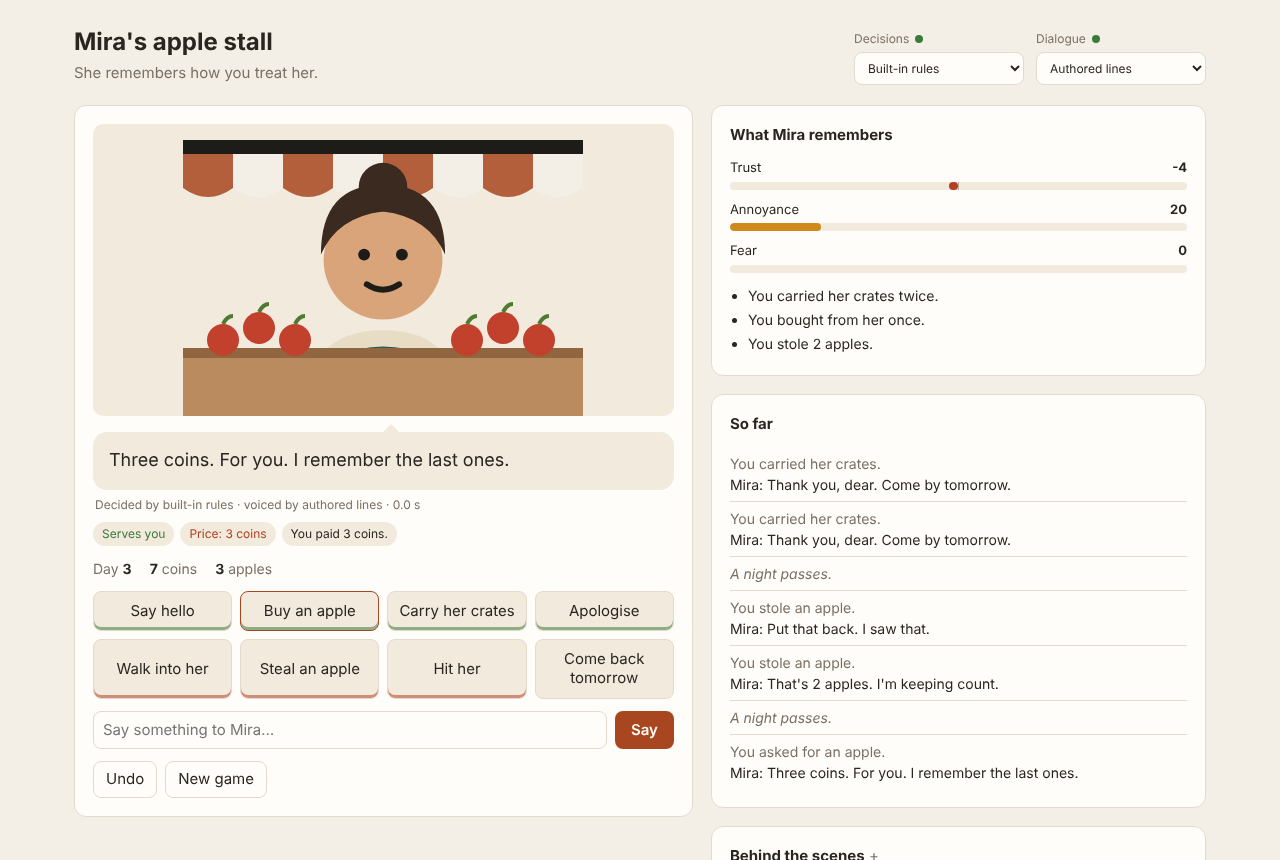
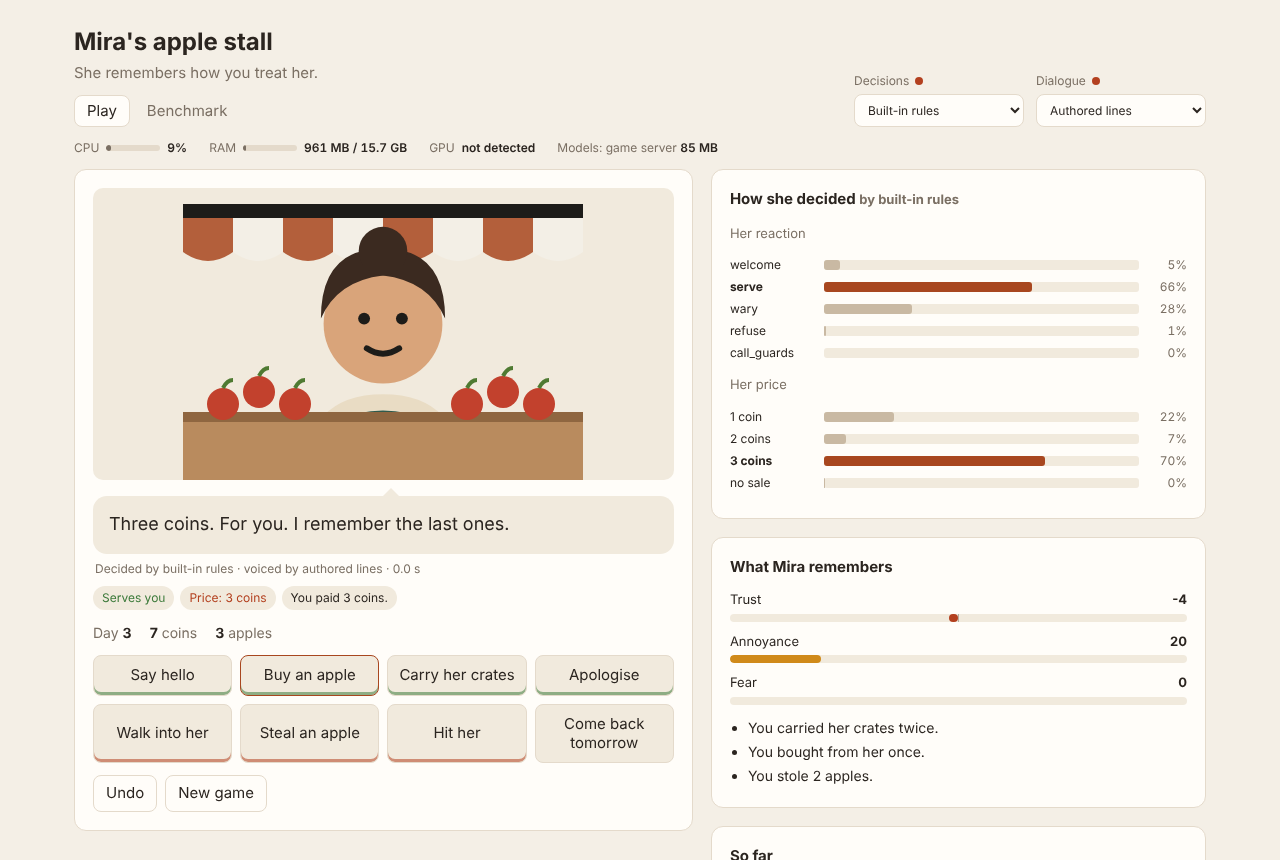
Show live CPU, RAM, GPU and model memory on the page

diff --git a/src/system.ts b/src/system.ts
@@ -1,0 +1,96 @@
+/**
+ * Live system stats for the page: CPU and RAM for the whole machine, the GPU
+ * when an NVIDIA card and nvidia-smi are present, and how much memory each
+ * model is using.
+ */
+import { execFile } from "node:child_process";
+import os from "node:os";
+import type { DeciderHealth } from "./decision.ts";
+import type { LoadedModel } from "./ollama.ts";
+import type { Services } from "./turn.ts";
+
+export type Gpu = { name: string; utilisation: number; memoryUsedMB: number; memoryTotalMB: number };
+
+export type SystemStats = {
+  cpu: { model: string; cores: number; usage: number };
+  memory: { usedMB: number; totalMB: number };
+  /** null when no NVIDIA GPU (or no nvidia-smi) was found */
+  gpus: Gpu[] | null;
+  decider: DeciderHealth | null;
+  ollama: LoadedModel[];
+  serverMB: number;
+};
+
+/* ---------------- CPU ---------------- */
+
+function cpuTimes() {
+  let idle = 0;
+  let total = 0;
+  for (const c of os.cpus()) {
+    idle += c.times.idle;
+    total += c.times.user + c.times.nice + c.times.sys + c.times.irq + c.times.idle;
+  }
+  return { idle, total };
+}
+
+let previous = cpuTimes();
+
+/** Share of CPU time spent busy since the last call, across all cores. */
+function cpuUsage() {
+  const now = cpuTimes();
+  const total = now.total - previous.total;
+  const idle = now.idle - previous.idle;
+  previous = now;
+  return total > 0 ? Math.max(0, Math.min(1, 1 - idle / total)) : 0;
+}
+
+/* ---------------- GPU ---------------- */
+
+export function parseNvidiaSmi(out: string): Gpu[] {
+  return out
+    .trim()
+    .split("\n")
+    .filter(Boolean)
+    .map((line) => {
+      const [name, util, used, total] = line.split(",").map((x) => x.trim());
+      return { name, utilisation: Number(util) / 100, memoryUsedMB: Number(used), memoryTotalMB: Number(total) };
+    })
+    .filter((g) => g.name && Number.isFinite(g.memoryTotalMB));
+}
+
+let noNvidiaSmi = false;
+
+function nvidiaSmi(): Promise<Gpu[] | null> {
+  if (noNvidiaSmi) return Promise.resolve(null);
+  return new Promise((resolve) => {
+    execFile(
+      "nvidia-smi",
+      ["--query-gpu=name,utilization.gpu,memory.used,memory.total", "--format=csv,noheader,nounits"],
+      { timeout: 2000, windowsHide: true },
+      (err, stdout) => {
+        if (err) {
+          // not installed: stop asking. Any other error: try again next time.
+          if ((err as NodeJS.ErrnoException).code === "ENOENT") noNvidiaSmi = true;
+          return resolve(null);
+        }
+        const gpus = parseNvidiaSmi(stdout);
+        resolve(gpus.length ? gpus : null);
+      },
+    );
+  });
+}
+
+/* ---------------- all together ---------------- */
+
+export async function systemStats(services: Services): Promise<SystemStats> {
+  const [gpus, decider, ollama] = await Promise.all([nvidiaSmi(), services.gliclass.health(), services.ollama.loaded()]);
+  const totalMB = os.totalmem() / 2 ** 20;
+  return {
+    cpu: { model: os.cpus()[0]?.model.trim() ?? "unknown", cores: os.cpus().length, usage: cpuUsage() },
+    memory: { usedMB: totalMB - os.freemem() / 2 ** 20, totalMB },
+    gpus,
+    decider,
+    ollama,
+    serverMB: process.memoryUsage().rss / 2 ** 20,
+  };
+}

diff --git a/web/system.js b/web/system.js
@@ -1,0 +1,57 @@
+// Live system stats under the header: CPU, RAM, GPU and what each model uses.
+
+const el = document.querySelector("#system");
+const esc = (s) =>
+  String(s).replace(/[&<>"']/g, (c) => ({ "&": "&amp;", "<": "&lt;", ">": "&gt;", '"': "&quot;", "'": "&#39;" })[c]);
+const gb = (mb) => (mb >= 1024 ? `${(mb / 1024).toFixed(1)} GB` : `${Math.round(mb)} MB`);
+
+function gauge(share) {
+  const cls = share > 0.9 ? "full" : share > 0.6 ? "busy" : "";
+  return `<span class="gauge ${cls}"><span style="width:${Math.round(share * 100)}%"></span></span>`;
+}
+
+function stat(label, share, text, title = "") {
+  return `<span class="stat" title="${esc(title)}">${label} ${gauge(share)} <b>${text}</b></span>`;
+}
+
+function render(s) {
+  const parts = [
+    stat("CPU", s.cpu.usage, `${Math.round(s.cpu.usage * 100)}%`, `${s.cpu.model}, ${s.cpu.cores} cores`),
+    stat("RAM", s.memory.usedMB / s.memory.totalMB, `${gb(s.memory.usedMB)} / ${gb(s.memory.totalMB)}`),
+  ];
+  if (s.gpus) {
+    for (const g of s.gpus) {
+      parts.push(stat("GPU", g.utilisation, `${Math.round(g.utilisation * 100)}%`, g.name));
+      parts.push(stat("VRAM", g.memoryUsedMB / g.memoryTotalMB, `${gb(g.memoryUsedMB)} / ${gb(g.memoryTotalMB)}`, g.name));
+    }
+  } else {
+    parts.push(`<span class="stat" title="GPU stats need an NVIDIA card with nvidia-smi">GPU <b>not detected</b></span>`);
+  }
+
+  const models = [];
+  if (s.decider) {
+    const mem = [s.decider.rss_mb != null && `${gb(s.decider.rss_mb)} RAM`, s.decider.gpu_mb != null && `${gb(s.decider.gpu_mb)} GPU`].filter(Boolean);
+    models.push(`GLiClass on ${esc(s.decider.device)}${mem.length ? ` <b>${mem.join(", ")}</b>` : ""}`);
+  }
+  for (const m of s.ollama) {
+    const onGpu = m.sizeMB > 0 ? Math.round((m.vramMB / m.sizeMB) * 100) : 0;
+    models.push(`${esc(m.name)} <b>${gb(m.sizeMB)}</b> ${onGpu > 0 ? `(${onGpu}% on GPU)` : "(CPU)"}`);
+  }
+  models.push(`game server <b>${gb(s.serverMB)}</b>`);
+  parts.push(`<span class="stat models">Models: ${models.join(" · ")}</span>`);
+  el.innerHTML = parts.join("");
+}
+
+let timer;
+async function poll() {
+  clearTimeout(timer);
+  try {
+    render(await (await fetch("/api/system")).json());
+  } catch {
+    el.textContent = "";
+  }
+  if (!document.hidden) timer = setTimeout(poll, 2000);
+}
+
+document.addEventListener("visibilitychange", () => !document.hidden && poll());
+poll();

diff --git a/src/server.ts b/src/server.ts
@@ -4,12 +4,14 @@
  *   GET  /api/status  which decision model and which language models are running
  *   POST /api/turn    { events, decider, voice } -> Mira's memory, decision and line
  *   POST /api/bench   { turns, seed, decider, voice } -> one JSON line per turn, then the result
+ *   GET  /api/system  CPU, RAM and GPU use, and how much memory each model takes
  */
 import { createServer, type IncomingMessage, type ServerResponse } from "node:http";
 import { readFile } from "node:fs/promises";
 import { extname, resolve, sep } from "node:path";
 import { runBench } from "./bench.ts";
 import { ACTIONS, type Event } from "./memory.ts";
+import { systemStats } from "./system.ts";
 import { defaultServices, takeTurn, type Services } from "./turn.ts";
 
 const TYPES: Record<string, string> = {
@@ -64,6 +66,7 @@ export function createApp(root: string, services: Services = defaultServices()) 
       const [gliclass, models] = await Promise.all([services.gliclass.health(), services.ollama.models()]);
       return { gliclass, ollama: models === null ? null : { models } };
     }
+    if (req.method === "GET" && path === "/api/system") return systemStats(services);
     if (req.method === "POST" && path === "/api/turn") {
       const body = await readJson(req);
       return takeTurn(

diff --git a/web/style.css b/web/style.css
@@ -268,3 +268,26 @@ td.num, th.num { text-align: right; font-variant-numeric: tabular-nums; white-sp
 td.line { min-width: 240px; }
 .fb { color: var(--bad); font-size: 11px; }
 #bench-results { display: flex; flex-direction: column; gap: 18px; }
+
+/* system stats */
+.system {
+  max-width: 1180px;
+  margin: 4px auto 0;
+  padding: 0 24px;
+  display: flex;
+  flex-wrap: wrap;
+  gap: 8px 22px;
+  font-size: 12px;
+  color: var(--muted);
+  align-items: center;
+}
+@media (max-width: 560px) { .system { padding: 0 16px; gap: 6px 16px; } }
+.stat { display: flex; align-items: center; gap: 7px; white-space: nowrap; }
+.stat b { color: var(--text); font-weight: 600; font-variant-numeric: tabular-nums; }
+.stat .gauge { width: 54px; height: 6px; border-radius: 3px; background: var(--border); overflow: hidden; }
+.stat .gauge span { display: block; height: 100%; background: var(--muted); border-radius: 3px; transition: width 400ms ease; }
+.stat .gauge.busy span { background: var(--annoyance); }
+.stat .gauge.full span { background: var(--bad); }
+.stat.models { display: block; flex-basis: 100%; white-space: normal; }
+@media (min-width: 1100px) { .stat.models { flex-basis: auto; } }
+.actions + .row { margin-top: 12px; }

diff --git a/test/server.test.ts b/test/server.test.ts
@@ -48,3 +48,12 @@ test("streams a benchmark one turn at a time", async () => {
   assert.deepEqual(lines.map((l) => l.type), ["turn", "turn", "turn", "done"]);
   assert.equal(lines.at(-1).result.turns.length, 3);
 });
+
+test("reports system stats", async () => {
+  const s = await (await fetch(`${base}/api/system`)).json();
+  assert.ok(s.cpu.cores > 0);
+  assert.ok(s.cpu.usage >= 0 && s.cpu.usage <= 1);
+  assert.ok(s.memory.totalMB > s.memory.usedMB);
+  assert.equal(s.decider, null);
+  assert.deepEqual(s.ollama, []);
+});

diff --git a/web/index.html b/web/index.html
@@ -31,6 +31,8 @@
       </div>
     </header>
 
+    <section id="system" class="system" aria-label="System"></section>
+
     <main id="play-view" class="layout">
       <section class="scene card">
         <div id="portrait" class="portrait"></div>
@@ -130,5 +132,6 @@
 
     <script type="module" src="app.js"></script>
     <script type="module" src="bench.js"></script>
+    <script type="module" src="system.js"></script>
   </body>
 </html>

diff --git a/test/system.test.ts b/test/system.test.ts
@@ -1,0 +1,10 @@
+import { test } from "node:test";
+import assert from "node:assert/strict";
+import { parseNvidiaSmi } from "../src/system.ts";
+
+test("reads nvidia-smi's CSV output", () => {
+  assert.deepEqual(parseNvidiaSmi("NVIDIA GeForce RTX 3060, 41, 2350, 12288\n"), [
+    { name: "NVIDIA GeForce RTX 3060", utilisation: 0.41, memoryUsedMB: 2350, memoryTotalMB: 12288 },
+  ]);
+  assert.deepEqual(parseNvidiaSmi(""), []);
+});

diff --git a/README.md b/README.md
@@ -15,7 +15,9 @@ Each turn has two steps.
 
 Either step can drop out. Without GLiClass, built-in rules make the decision. Without Ollama, she uses authored lines. The game is fully playable with neither.
 
-Open "Behind the scenes" on the page to see the text the decision model read, the score it gave each option, and the prompt the language model got.
+The "How she decided" card next to her shows the score each reaction and price got. Open "Behind the scenes" to see the text the decision model read and the prompt the language model got.
+
+A bar under the title shows CPU, RAM, GPU and VRAM use while you play, and how much memory each model takes. GPU numbers need an NVIDIA card with `nvidia-smi`; on other machines the bar says the GPU wasn't detected.
 
 ## Running it
 
@@ -65,6 +67,7 @@ src/dialogue.ts   step 2: turning the decision into a line, with authored lines 
 src/lines.ts      the authored lines
 src/turn.ts       one turn: remember, decide, speak
 src/bench.ts      the benchmark (src/bench-cli.ts runs it from the command line)
+src/system.ts     CPU, RAM and GPU stats for the page
 src/server.ts     local server for the page
 decider/          GLiClass behind a small HTTP service
 web/              the game page (plain HTML, CSS and JavaScript)
